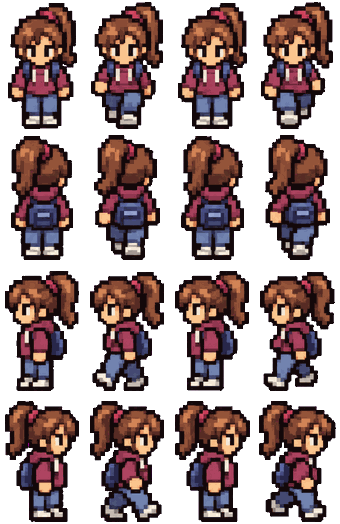
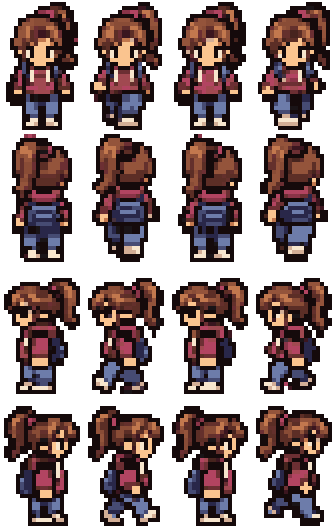
The Unwritten: townsfolk and animals snapped to hard art pixels like the kid; the autumn jogger redrawn chunkier by ChatGPT; riding to a school or the hospital drops you at its own door
Claude-Session: https://claude.ai/code/session_01TBSkio7k4jk7kM2MR7UMZN

diff --git a/unwritten/js/core/mapplus.js b/unwritten/js/core/mapplus.js
@@ -14,6 +14,15 @@ for (const p of PL) {   // how close counts as 'here': the building's own size, 
   const b = bAt(Math.floor(p.x), Math.floor(p.y)); p.b = b && !(b.style && b.style.canopyOnly) ? b : null;
   p.r = p.b ? Math.hypot(p.b.pxMax - p.b.pxMin, p.b.pyMax - p.b.pyMin) / 2 + 5 : p.cat === 'lake' ? 16 : p.cat === 'park' ? 12 : 8;
 }
+// Nov 27 (arrivals): a place whose map point sits on open ground (a school's field, the hospital lawn) rides you to the door of
+// its own building when one with the same name stands close by, so you arrive looking at the place, not at grass.
+{ const STOP = new Set(['school', 'the', 'of', 'county', 'saint', 'st', 'grade', 'antigo', 'langlade', 'and', 'center']);
+  const words = n => (n || '').toLowerCase().split(/[^a-z]+/).filter(w => w.length > 2 && !STOP.has(w));
+  for (const p of PL) { if (p.b || /park|lake|cemetery/.test(p.cat)) continue; const w = words(p.name); if (!w.length) continue;
+    let best = null; for (const b of BLD) { if (!b.door || !b.name) continue; const bw = words(b.name); if (!bw.some(x => w.includes(x))) continue;
+      const d = Math.hypot((b.pxMin + b.pxMax) / 2 - p.x, (b.pyMin + b.pyMax) / 2 - p.y); if (d > 70) continue;
+      const a = (b.pxMax - b.pxMin) * (b.pyMax - b.pyMin); if (!best || a > best[0]) best = [a, b]; }
+    if (best) p.door = best[1]; } }
 const MAJOR_PLACE = new Set(['fig', 'hospital', 'lake', 'airport']);
 const isMajorPlace = p => MAJOR_PLACE.has(p.cat) || /Courthouse|Fairgrounds|High School|Lake Park/.test(p.name);
 
@@ -92,9 +101,9 @@ function roadNear(px, py, maxD) {   // the nearest point on a named street
   return best;
 }
 function rideTo(p) {
-  let tx = p.x, ty = p.y;
-  if (!(p.b && p.b.door)) { const r = roadNear(p.x, p.y, 45); if (r && r.d > 3) { const k = Math.min(1, (r.w / 2 + 2.5) / r.d); tx = r.x + (p.x - r.x) * k; ty = r.y + (p.y - r.y) * k; } }
-  const [x, y] = p.b && p.b.door ? outsideDoorM(p.b) : freeNearM(Math.round(tx * CPD), Math.round(ty * CPD));
+  let tx = p.x, ty = p.y; const db = p.b && p.b.door ? p.b : p.door || null;
+  if (!db) { const r = roadNear(p.x, p.y, 45); if (r && r.d > 3) { const k = Math.min(1, (r.w / 2 + 2.5) / r.d); tx = r.x + (p.x - r.x) * k; ty = r.y + (p.y - r.y) * k; } }
+  const [x, y] = db ? outsideDoorM(db) : freeNearM(Math.round(tx * CPD), Math.round(ty * CPD));
   G.x = x; G.y = y; G.dir = 'down'; P.t = 0; P.mx = P.my = 0; setMode('walk');
   if (!G.visited) G.visited = {}; const first = !G.visited[p.name]; G.visited[p.name] = 1; LAST_PLACE = p.name; LAST_STREET = streetAt((x + 0.5) / CPD, (y + 0.5) / CPD) || '';
   say([['', 'You ride over to ' + p.name + '.' + (p.note && p.note !== 'OpenStreetMap' ? ' ' + p.note + '.' : '')]].concat(first ? [['', 'New place: ' + placesFound() + ' of ' + PL.length + ' found.']] : []));
